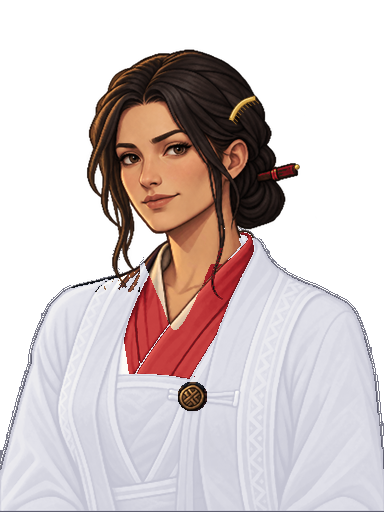
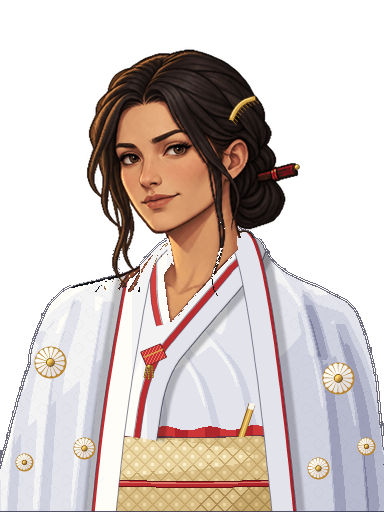
Kaede's wedding dress, painted whole: a bridal kimono in place of her robes
Re-dyeing her own robes white still read as the same outfit. Her wedding dress
is now a new garment painted over her wherever she isn't skin or hair
(bridal_kimono): a white kimono with three collars (white, red, white) crossed
left over right about her throat; a brocade sash with a red scarf and cord; a
purse tucked in her collar and a fan in her sash; and over it a white robe worn
open, lined in red, worked with chrysanthemums in gold thread.

The cloth is lit from the upper left with folds laid into it, flat tones and
dark outlines; the collars follow the line of her own throat, so nothing of the
painting's skin is redrawn. Her red pin and gold comb stay.

Claude-Session: https://claude.ai/code/session_01XvgEay1pJez8ktwbJ7pgPF

Changed region(s): [[0.0625, 0.4375, 1.0, 1.0], [0.0, 0.8438, 0.125, 0.9688], [0.0312, 0.8125, 0.0625, 0.8438]]

diff --git a/tools/portrait_wedding.py b/tools/portrait_wedding.py
@@ -12,9 +12,12 @@ own garments re-dyed by their own light and shade, so the painter's folds stay.
   Farah  (a desert court)    crimson silk, its bands worked in bright gold; a sheer ivory
          veil set back on her crown and falling past her shoulders, bordered in gold; a
          circlet of gold coins with a garnet on her brow, gold earrings, a coin necklace
-  Kaede  (an island court)   all in white: white robes with their pattern woven white on
-         white, a red inner collar; her hair as she wears it, the pin through her knot
-         lacquered red and a small gold comb set behind her crown
+  Kaede  (an island court)   a bride's dress painted whole, in place of what she wears: a
+         white kimono, its three collars (white, red, white) crossed about her throat; a
+         brocade sash with a red scarf and cord; a purse tucked in her collar, a fan in her
+         sash; over it a white robe worn open, lined in red, worked with chrysanthemums
+         in gold thread. Her hair as she wears it, the pin through her knot lacquered
+         red and a small gold comb set behind her crown
 
 Writes assets/portraits/<who>_wedding_<expression>.png for the expressions the wedding
 uses, and assets/portraits/face/<who>_wedding_hair.png, where the shader may swing hair
@@ -270,6 +273,203 @@ def locks(shape, masses, palette, seed=7, ss=3):
     return np.array(im.resize((w, h), Image.LANCZOS)).astype(float)
 
 
+WHITE_SILK = [(0.0, (92, 94, 124)), (0.3, (160, 162, 188)), (0.6, (214, 215, 228)), (0.85, (242, 242, 244)),
+              (1.0, (254, 253, 248))]
+RED_SILK = [(0.0, (64, 8, 16)), (0.45, (150, 24, 34)), (0.8, (204, 52, 52)), (1.0, (238, 110, 96))]
+BROCADE = [(0.0, (104, 76, 40)), (0.45, (190, 156, 96)), (0.8, (232, 210, 156)), (1.0, (252, 242, 208))]
+LINE = (58, 56, 78)
+
+
+def offset(path, r):
+    """`path` moved r to its right-hand side (as you walk it)."""
+    out = []
+    for i, (x, y) in enumerate(path):
+        x0, y0 = path[max(i - 1, 0)]; x1, y1 = path[min(i + 1, len(path) - 1)]
+        dx, dy = x1 - x0, y1 - y0
+        n = max(1e-6, np.hypot(dx, dy))
+        out.append((x - dy / n * r, y + dx / n * r))
+    return out
+
+def band(path, r0, r1, shape):
+    return poly(offset(path, r0) + offset(path, r1)[::-1], shape)
+
+def tones(lit, levels=6):
+    return np.clip(np.round(lit * levels) / levels, 0, 1)
+
+class Cloth:
+    """The light on a cloth everywhere: a base, shaped by the folds laid in it."""
+    def __init__(self, shape, base):
+        self.shape = shape; self.lit = base.copy()
+    def fold(self, pts, strength=0.16, width=1.4, soft=11.0):
+        pts = curve(pts, n=8)
+        self.lit -= strength * 0.8 * blur(stroke(pts, width, self.shape), 1)
+        self.lit -= 0.9 * strength * blur(stroke([(x + 4, y + 2) for x, y in pts], soft, self.shape), 4)
+        self.lit += 0.5 * strength * blur(stroke([(x - 4, y - 2) for x, y in pts], soft * 0.7, self.shape), 3)
+
+def kiku(out, cx, cy, r, petals=16, turn=0.0):
+    """A chrysanthemum roundel worked in white and gold thread."""
+    h, w = out.shape[:2]
+    thread = (184, 132, 48)
+    lay(out, disc((h, w), cx, cy, r + 1.0)[0], thread)
+    for i in range(petals):
+        a0 = turn + (i - 0.40) * 2 * np.pi / petals
+        a1 = turn + (i + 0.40) * 2 * np.pi / petals
+        am = (a0 + a1) / 2
+        pts = [(cx + np.cos(a0) * r * 0.26, cy + np.sin(a0) * r * 0.26)]
+        for t in np.linspace(0, 1, 5):
+            a = a0 + (a1 - a0) * t
+            rr = r * (0.93 + 0.07 * np.sin(np.pi * t))
+            pts.append((cx + np.cos(a) * rr, cy + np.sin(a) * rr))
+        pts.append((cx + np.cos(a1) * r * 0.26, cy + np.sin(a1) * r * 0.26))
+        lit = 0.5 + 0.5 * np.clip(-(np.cos(am) + np.sin(am)) / 1.4, -1, 1)
+        col = np.array((226, 222, 226.0)) * (1 - lit) + np.array((255, 253, 246.0)) * lit
+        lay(out, poly(pts, (h, w)), col)
+    coin(out, cx, cy, max(1.6, r * 0.24))
+
+def kiku(out, cx, cy, r, petals=16, turn=0.0):
+    """A chrysanthemum roundel worked in white and gold thread."""
+    h, w = out.shape[:2]
+    thread = (184, 132, 48)
+    lay(out, disc((h, w), cx, cy, r + 1.0)[0], thread)
+    for i in range(petals):
+        a0 = turn + (i - 0.40) * 2 * np.pi / petals
+        a1 = turn + (i + 0.40) * 2 * np.pi / petals
+        am = (a0 + a1) / 2
+        pts = [(cx + np.cos(a0) * r * 0.26, cy + np.sin(a0) * r * 0.26)]
+        for t in np.linspace(0, 1, 5):
+            a = a0 + (a1 - a0) * t
+            rr = r * (0.93 + 0.07 * np.sin(np.pi * t))
+            pts.append((cx + np.cos(a) * rr, cy + np.sin(a) * rr))
+        pts.append((cx + np.cos(a1) * r * 0.26, cy + np.sin(a1) * r * 0.26))
+        lit = 0.5 + 0.5 * np.clip(-(np.cos(am) + np.sin(am)) / 1.4, -1, 1)
+        col = np.array((226, 222, 226.0)) * (1 - lit) + np.array((255, 253, 246.0)) * lit
+        lay(out, poly(pts, (h, w)), col)
+    coin(out, cx, cy, max(1.6, r * 0.24))
+
+def crane(out, cx, cy, k=1.0, flip=1):
+    """A crane in flight, worked in white and gold thread."""
+    h, w = out.shape[:2]
+    def P(pts): return [(cx + flip * x * k, cy + y * k) for x, y in pts]
+    thread = (176, 124, 44)
+    wing1 = P([(-3, -2), (-11, -17), (-5, -23), (3, -17), (5, -3)])
+    wing2 = P([(2, -3), (9, -21), (18, -19), (17, -9), (9, -2)])
+    for wing, tip in ((wing2, P([(9, -21), (18, -19), (16.5, -14), (10, -16)])), (wing1, P([(-11, -17), (-5, -23), (-3.5, -18), (-9, -13.5)]))):
+        lay(out, stroke(wing + [wing[0]], 1.6, (h, w)), thread)
+        lay(out, poly(wing, (h, w)), (250, 246, 234))
+        lay(out, poly(tip, (h, w)), (78, 74, 92))
+        a0 = wing[0]
+        for t in (0.25, 0.5, 0.75):
+            b = (wing[1][0] * (1 - t) + wing[3][0] * t, wing[1][1] * (1 - t) + wing[3][1] * t)
+            lay(out, stroke([((a0[0] + b[0]) / 2, (a0[1] + b[1]) / 2), b], 0.8, (h, w)) * 0.8, thread)
+    body = P([(-9, 0), (-5, -3.5), (3, -4), (10, -1), (12, 2), (4, 4), (-5, 3.5)])
+    lay(out, stroke(body + [body[0]], 1.6, (h, w)), thread)
+    lay(out, poly(body, (h, w)), (252, 249, 240))
+    lay(out, stroke(curve(P([(-8, -1), (-14, -4.5), (-20, -5.5)]), n=5), 2.6, (h, w)), thread)
+    lay(out, stroke(curve(P([(-8, -1), (-14, -4.5), (-20, -5.5)]), n=5), 1.4, (h, w)), (60, 58, 76))
+    lay(out, stroke(P([(-20, -5.5), (-26, -4.5)]), 1.0, (h, w)), thread)
+    lay(out, stroke(P([(10, 1), (21, 4.5)]), 1.0, (h, w)), (70, 66, 84))
+    hx, hy = P([(-20, -7.2)])[0]
+    d = disc((h, w), hx, hy, 1.3 * k)[0]
+    lay(out, d, (200, 36, 44))
+
+
+def bridal_kimono(src):
+    """A bride's dress of an island court, painted whole (it is laid over her wherever she
+    isn't skin or hair): a white kimono with its three collars crossed left over right, a
+    brocade sash with its scarf and cord, a purse tucked in her collar and a fan in her sash,
+    and over it a white robe worn open, lined in red, worked with chrysanthemums."""
+    h, w = src.shape[:2]
+    S = (h, w)
+    yy, xx = np.mgrid[0:h, 0:w].astype(float)
+    # ---- the light on each cloth
+    side = np.clip(0.5 - (xx - 192) / 420.0, 0, 1)                 # lit from the upper left
+    drop = smooth(280, 512, yy)
+    figure = src[..., 3] > 0
+    top = np.where(figure[222:].any(axis=0), 222 + np.argmax(figure[222:], axis=0), h)[None, :].astype(float)
+    below_top = yy - top
+    robe = Cloth(S, 0.58 + 0.34 * side - 0.14 * drop + 0.16 * (1 - smooth(0, 46, below_top)))
+    for pts in ([(74, 300), (52, 380), (40, 512)], [(104, 300), (88, 400), (76, 512)], [(36, 330), (16, 420), (8, 512)],
+                [(302, 290), (324, 380), (336, 512)], [(336, 322), (358, 410), (368, 512)], [(276, 262), (304, 304), (318, 356)],
+                [(98, 284), (62, 304), (30, 338)]):
+        robe.fold(pts)
+    robe.lit -= 0.10 * blur(stroke(curve([(318, 300), (350, 400), (364, 512)], n=8), 46, S), 8)   # the far sleeve turns away
+    out_robe = ramp(WHITE_SILK, tones(robe.lit, 7))
+    # A woven ground: small diamonds, tone on tone.
+    weave = (((xx + yy) % 12 < 1.0) | ((xx - yy) % 12 < 1.0)) & (((xx + yy) % 24 < 13) ^ ((xx - yy) % 24 < 13))
+    out_robe = np.where(weave[..., None], out_robe * 0.965, out_robe)
+    img = np.dstack([out_robe, np.full(S, 255.0)])
+    # ---- the kimono beneath, between the over-robe's two edges
+    left_edge = curve([(150, 236), (132, 262), (118, 330), (104, 420), (94, 512)], n=10)
+    right_edge = curve([(236, 224), (254, 242), (268, 300), (282, 400), (294, 512)], n=10)
+    panel = poly(left_edge + right_edge[::-1], S)
+    kim = Cloth(S, 0.66 + 0.30 * side - 0.10 * smooth(320, 440, yy))
+    for pts in ([(176, 340), (200, 380), (214, 430)], [(150, 356), (160, 396), (160, 432)], [(206, 330), (236, 372), (250, 430)]):
+        kim.fold(pts, strength=0.14, soft=6)
+    lay(img, panel, ramp(WHITE_SILK, tones(kim.lit, 7)))
+    # ---- the sash, its scarf above it and its cord
+    obi_top = 434.0 + 3.0 * np.sin((xx - 100) / 60.0)
+    obi = panel * (yy > obi_top)
+    ol = 0.50 + 0.40 * side - 0.08 * smooth(440, 512, yy) + 0.12 * np.sin(np.clip((yy - 436) / 44.0, 0, 1) * np.pi)
+    lattice = ((xx + yy) % 16 < 1.3) | ((xx - yy) % 16 < 1.3)
+    flower = (np.hypot((xx + yy) % 16 - 8, (xx - yy) % 16 - 8) < 2.6)
+    ol = np.where(lattice, ol - 0.20, ol)
+    ol = np.where(flower, ol + 0.16, ol)
+    lay(img, obi, ramp(BROCADE, tones(ol, 6)))
+    scarf = panel * (yy > obi_top - 9 + 2.0 * np.sin(xx / 7.0)) * (yy <= obi_top + 1)
+    sl = 0.55 + 0.35 * side + 0.12 * np.sin(xx / 5.0)
+    lay(img, scarf, ramp(RED_SILK, tones(sl, 5)))
+    lay(img, panel * (np.abs(yy - obi_top) < 0.8), LINE, 0.7)
+    cord_y = 482.0 + 2.0 * np.sin((xx - 100) / 60.0)
+    lay(img, panel * (np.abs(yy - cord_y) < 3.4), (96, 14, 22))
+    lay(img, panel * (np.abs(yy - cord_y) < 2.4), ramp(RED_SILK, 0.45 + 0.4 * side))
+    lay(img, panel * (np.abs(yy - cord_y + 1.2) < 0.7), (240, 150, 130), 0.7)
+    # ---- the collars: white, red, white, crossed left over right about her throat
+    lpath = curve([(162, 226), (164, 262), (165, 298), (170, 323)], n=10)
+    rpath = curve([(240, 222), (234, 248), (222, 262), (213, 273), (170, 323), (148, 352), (134, 388), (126, 436)], n=10)
+    for path, sgn, shade in ((lpath, 1, 0.0), (rpath, -1, 0.06)):
+        edge = lambda r: band(path, sgn * r[0], sgn * r[1], S)
+        base = 0.74 + 0.24 * side - shade
+        lay(img, edge((13, 31)), ramp(WHITE_SILK, tones(base - 0.04 + 0.0 * xx, 7)))
+        lay(img, edge((7, 14)), ramp(RED_SILK, tones(base - 0.12, 6)))
+        lay(img, edge((-3, 8)), ramp(WHITE_SILK, tones(base + 0.10, 7)))
+        for r, a in ((31, 0.75), (14, 0.5), (7.5, 0.5)):
+            lay(img, stroke(offset(path, sgn * r), 1.0, S), LINE, a)
+        # The soft shade a collar casts on what lies under it.
+        cast = blur(band(path, sgn * 31, sgn * 39, S), 3)[..., None] * 0.24
+        img[..., :3] *= (1 - cast)
+    # ---- a little brocade purse tucked into her collar, its tassel hanging
+    purse = [(141, 352), (160, 344), (166, 357), (147, 366)]
+    lay(img, stroke(purse + [purse[0]], 1.6, S), (70, 20, 24))
+    pl = 0.5 + 0.3 * side + 0.25 * (((xx * 2 + yy) % 6) < 2)
+    lay(img, poly(purse, S), ramp(RED_SILK, tones(pl, 4)))
+    lay(img, stroke([(144, 357), (163, 349)], 1.6, S), GOLD_MID)
+    for i, dx in enumerate((-2.5, 0, 2.5)):
+        chain(img, [(149 + dx, 366), (148 + dx * 1.6, 378 + i % 2 * 2)])
+    coin(img, 148.5, 366, 1.6)
+    # ---- a fan tucked into her sash
+    fan = [(238, 446), (252, 404)]
+    lay(img, stroke(fan, 7.0, S), GOLD_DARK)
+    lay(img, stroke(fan, 5.0, S), ramp(GOLD, 0.7 + 0.0 * xx))
+    lay(img, stroke([(239.5, 441), (251.5, 406)], 1.0, S), GOLD_LIGHT, 0.9)
+    lay(img, stroke([(250.5, 409), (252.5, 403)], 6.0, S), (248, 244, 236))
+    lay(img, obi * poly([(226, 436), (262, 436), (262, 452), (226, 452)], S), ramp(BROCADE, tones(ol, 6)))
+    # ---- the over-robe's own collar bands down each side, lined in red
+    for path, sgn, shade in ((left_edge, -1, 0.0), (right_edge, 1, 0.10)):
+        b = band(path, 0, sgn * 22, S)
+        roll = 0.80 + 0.2 * side - shade
+        lay(img, b, ramp(WHITE_SILK, tones(roll + 0.0 * xx, 7)))
+        lay(img, band(path, sgn * -2.2, sgn * 0.6, S), ramp(RED_SILK, 0.5 + 0.3 * side))
+        lay(img, stroke(offset(path, sgn * 22), 1.0, S), LINE, 0.6)
+        lay(img, stroke(offset(path, sgn * -2.4), 1.0, S), LINE, 0.6)
+        cast = blur(band(path, sgn * -11, sgn * -2.4, S), 3)[..., None] * 0.22
+        img[..., :3] *= (1 - cast)
+    # ---- chrysanthemums in white and gold thread on the over-robe
+    for cx, cy, r, turn in ((50, 362, 15, 0.1), (84, 448, 10, 0.3), (24, 462, 8, 0.0),
+                            (338, 378, 15, 0.2), (318, 468, 10, 0.0), (366, 446, 8, 0.3)):
+        kiku(img, cx, cy, r, turn=turn)
+    return img
+
+
 # ---------------------------------------------------------------- the three
 def edda(src):
     h, w = src.shape[:2]
@@ -389,39 +589,21 @@ def kaede(src):
     yy, xx = np.mgrid[0:h, 0:w].astype(float)
     hh, ss, vv = hsv(src)
     lum = luminance(src)
-    # White robes, their pattern woven white on white; a red inner collar.
-    throat = poly(curve([(146, 236), (198, 222), (215, 228), (217, 250), (207, 272), (200, 290), (176, 330),
-                         (160, 300), (144, 262)]), (h, w))
-    below = (yy >= 226) & (src[..., 3] > 0) & (throat < 0.5)
-    clasp = np.hypot(xx - 192, yy - 396) < 15
-    # The strands that hang over her robe stay hair: dark, warm and saturated, where they hang.
-    hangs_left = (xx < 140) & (xx > 70) & (yy < 292)
-    hangs_right = (xx > 196) & (xx < 228) & (yy < 300)
+    alpha = src[..., 3] > 0
+    # What stays of the painting below her chin: her skin, and the strands of hair that hang
+    # over her shoulders. Everything else is dressed anew.
+    zone = poly([(136, 222), (222, 212), (236, 224), (238, 262), (206, 300), (182, 340), (160, 320), (140, 270)], (h, w)) > 0.5
+    skin = zone & (hh > 10) & (hh < 38) & (ss >= 0.46) & (vv > 0.42)
+    hangs = ((xx < 140) & (xx > 70) & (yy < 292)) | ((xx > 196) & (xx < 228) & (yy < 300))
     warm = (hh < 40) | (hh > 352)
-    hair = (hangs_left | hangs_right) & ((warm & (ss > 0.5) & (vv < 0.62)) | (vv < 0.12))
-    hair = hair | (grow(hair, 1) & (hangs_left | hangs_right) & (vv < 0.3) & (ss > 0.35) & warm)
-    # Above her shoulders only the back of the collar and of the robe is cloth: the rest is
-    # her hair (near black, or dark and warm), and stays.
+    hair = hangs & ((warm & (ss > 0.5) & (vv < 0.62)) | (vv < 0.12))
+    hair = hair | (grow(hair, 1) & hangs & (vv < 0.3) & (ss > 0.35) & warm)
     hair = hair | ((yy < 238) & (~((xx > 214) & (xx < 262)) | (vv < 0.14) | ((hh < 40) & (ss > 0.5) & (vv < 0.62))))
-    # The side of her neck shows behind that strand: skin (richer than the linen) stays too.
-    hair = hair | ((xx > 196) & (xx < 252) & (yy >= 222) & (yy < 264) & (hh > 12) & (hh < 36) & (ss >= 0.47) & (vv > 0.5))
-    # Her inner collar: cream linen (paler than skin), inside the line of the lapels.
-    zone = poly([(118, 300), (140, 240), (160, 236), (214, 226), (254, 226), (258, 262), (236, 300), (200, 380),
-                 (130, 380)], (h, w)) > 0.5
-    collar = below & zone & ~hair & ~hangs_left & (ss < 0.47) & (vv > 0.42) & (hh > 15) & (hh < 50)
-    collar = collar | (below & hangs_right & ~hair & (yy > 238))   # the strand lies on the collar
-    # Its back, by her neck: paler than any skin.
-    collar = collar | ((src[..., 3] > 0) & (xx > 206) & (xx < 262) & (yy >= 224) & (yy < 262) & ~hair
-                       & (ss < 0.40) & (vv > 0.5) & (hh > 10) & (hh < 55))
-    robe = below & ~clasp & ~hair & ~collar
+    cloth = alpha & (yy >= 222) & ~skin & ~hair
     out = src.copy()
-    silk = [(0.0, (96, 98, 122)), (0.3, (176, 176, 194)), (0.6, (226, 226, 234)), (1.0, (252, 251, 247))]
-    out[robe, :3] = ramp(silk, 0.42 + 0.58 * np.clip((lum - 8) / 150.0, 0, 1))[robe]
-    red = [(0.0, (70, 10, 16)), (0.5, (168, 30, 38)), (1.0, (226, 92, 84))]
-    out[collar, :3] = ramp(red, 0.2 + 0.8 * np.clip((lum - 120) / 110.0, 0, 1))[collar]
-    # The robe's own outline against what's behind her, as the painting draws it.
-    figure = out[..., 3] > 128
-    lay(out, (robe & grow(~figure, 1)).astype(float) * 0.8, (70, 70, 88))
+    out[cloth, :3] = bridal_kimono(src)[cloth, :3]
+    # The figure's outline against what's behind her, as the painting draws it.
+    lay(out, (cloth & (grow(~alpha, 1) | (src[..., 3] < 200))).astype(float) * 0.85, LINE)
     # Her hair as she wears it, dressed for the day with two things only. The pin through
     # her knot is lacquered red (re-dyed by its own light, its gold band kept)...
     pin = (xx > 250) & (xx < 300) & (yy > 158) & (yy < 186) & (src[..., 3] > 0) & (hh < 45) & (ss > 0.42) \

diff --git a/docs/game-feel-audit.md b/docs/game-feel-audit.md
@@ -390,11 +390,15 @@ as cheap, and was replaced):
 - **Farah**, a desert-court bride: crimson silk with its bands worked in gold; a sheer
   ivory veil set back on her crown and falling past her shoulders, bordered in gold; a
   circlet of coins with a garnet on her brow, gold earrings, a necklace of coins.
-- **Kaede**, an island-court bride: all in white, white robes with their pattern woven
-  white on white, a red inner collar. Her hair is as she wears it every day, with two
-  small things for the day: the pin through her knot lacquered red, and a gold comb set
-  behind her crown. A white silk hood was tried first; it hid her hair, dominated the
-  picture, and was taken off.
+- **Kaede**, an island-court bride: her dress is painted whole, in place of what she
+  wears (`bridal_kimono`): a white kimono with three collars (white, red, white) crossed
+  about her throat, a brocade sash with a red scarf and cord, a purse tucked in her collar
+  and a fan in her sash, and over it a white robe worn open, lined in red, worked with
+  chrysanthemums in gold thread. Only her skin and the strands of hair over her shoulders
+  are kept from the painting below her chin. Her hair is as every day, with the pin
+  through her knot lacquered red and a small gold comb. Tried first and dropped: a white
+  silk hood (it hid her), and her own robes re-dyed white (a reskin, not a wedding dress).
+  Edda and Farah still wear their own clothes re-dyed, with new things over them.
 
 New cloth, hair and metal are drawn in code: rounded forms lit from the upper left, laid
 in a few flat tones checkered where they meet, with dark outlines, as the paintings are.

diff --git a/assets/story-art-manifest.md b/assets/story-art-manifest.md
@@ -98,10 +98,13 @@ Use case: stylized-concept. Create a wide landscape 3:2 pixel-art background ill
   - Farah (a desert court): crimson silk with its bands worked in gold; a sheer ivory veil
     bordered in gold, set back on her crown; a coin circlet with a garnet on her brow,
     gold earrings, a coin necklace.
-  - Kaede (an island court): all white, white robes with their pattern woven white on
-    white, a red inner collar; her hair as she wears it every day, with the pin through
-    her knot lacquered red and a small gold comb set behind her crown. (A white silk hood
-    was tried first and taken off: it hid her and dominated the picture.)
+  - Kaede (an island court): a bride's dress painted whole in place of what she wears
+    (not her own robes re-dyed): a white kimono with three collars (white, red, white)
+    crossed about her throat, a brocade sash with a red scarf and cord, a purse tucked in
+    her collar and a fan in her sash, and over it a white robe worn open, lined in red,
+    worked with chrysanthemums in gold thread. Her hair as every day, with the pin through
+    her knot lacquered red and a small gold comb. (A white silk hood was tried and taken
+    off; so was a version that only re-dyed her robes.)
   Run it again (then `tools/portrait_faces.py`) after a portrait is replaced.
 
 ## Farah / Qasr Hamra
